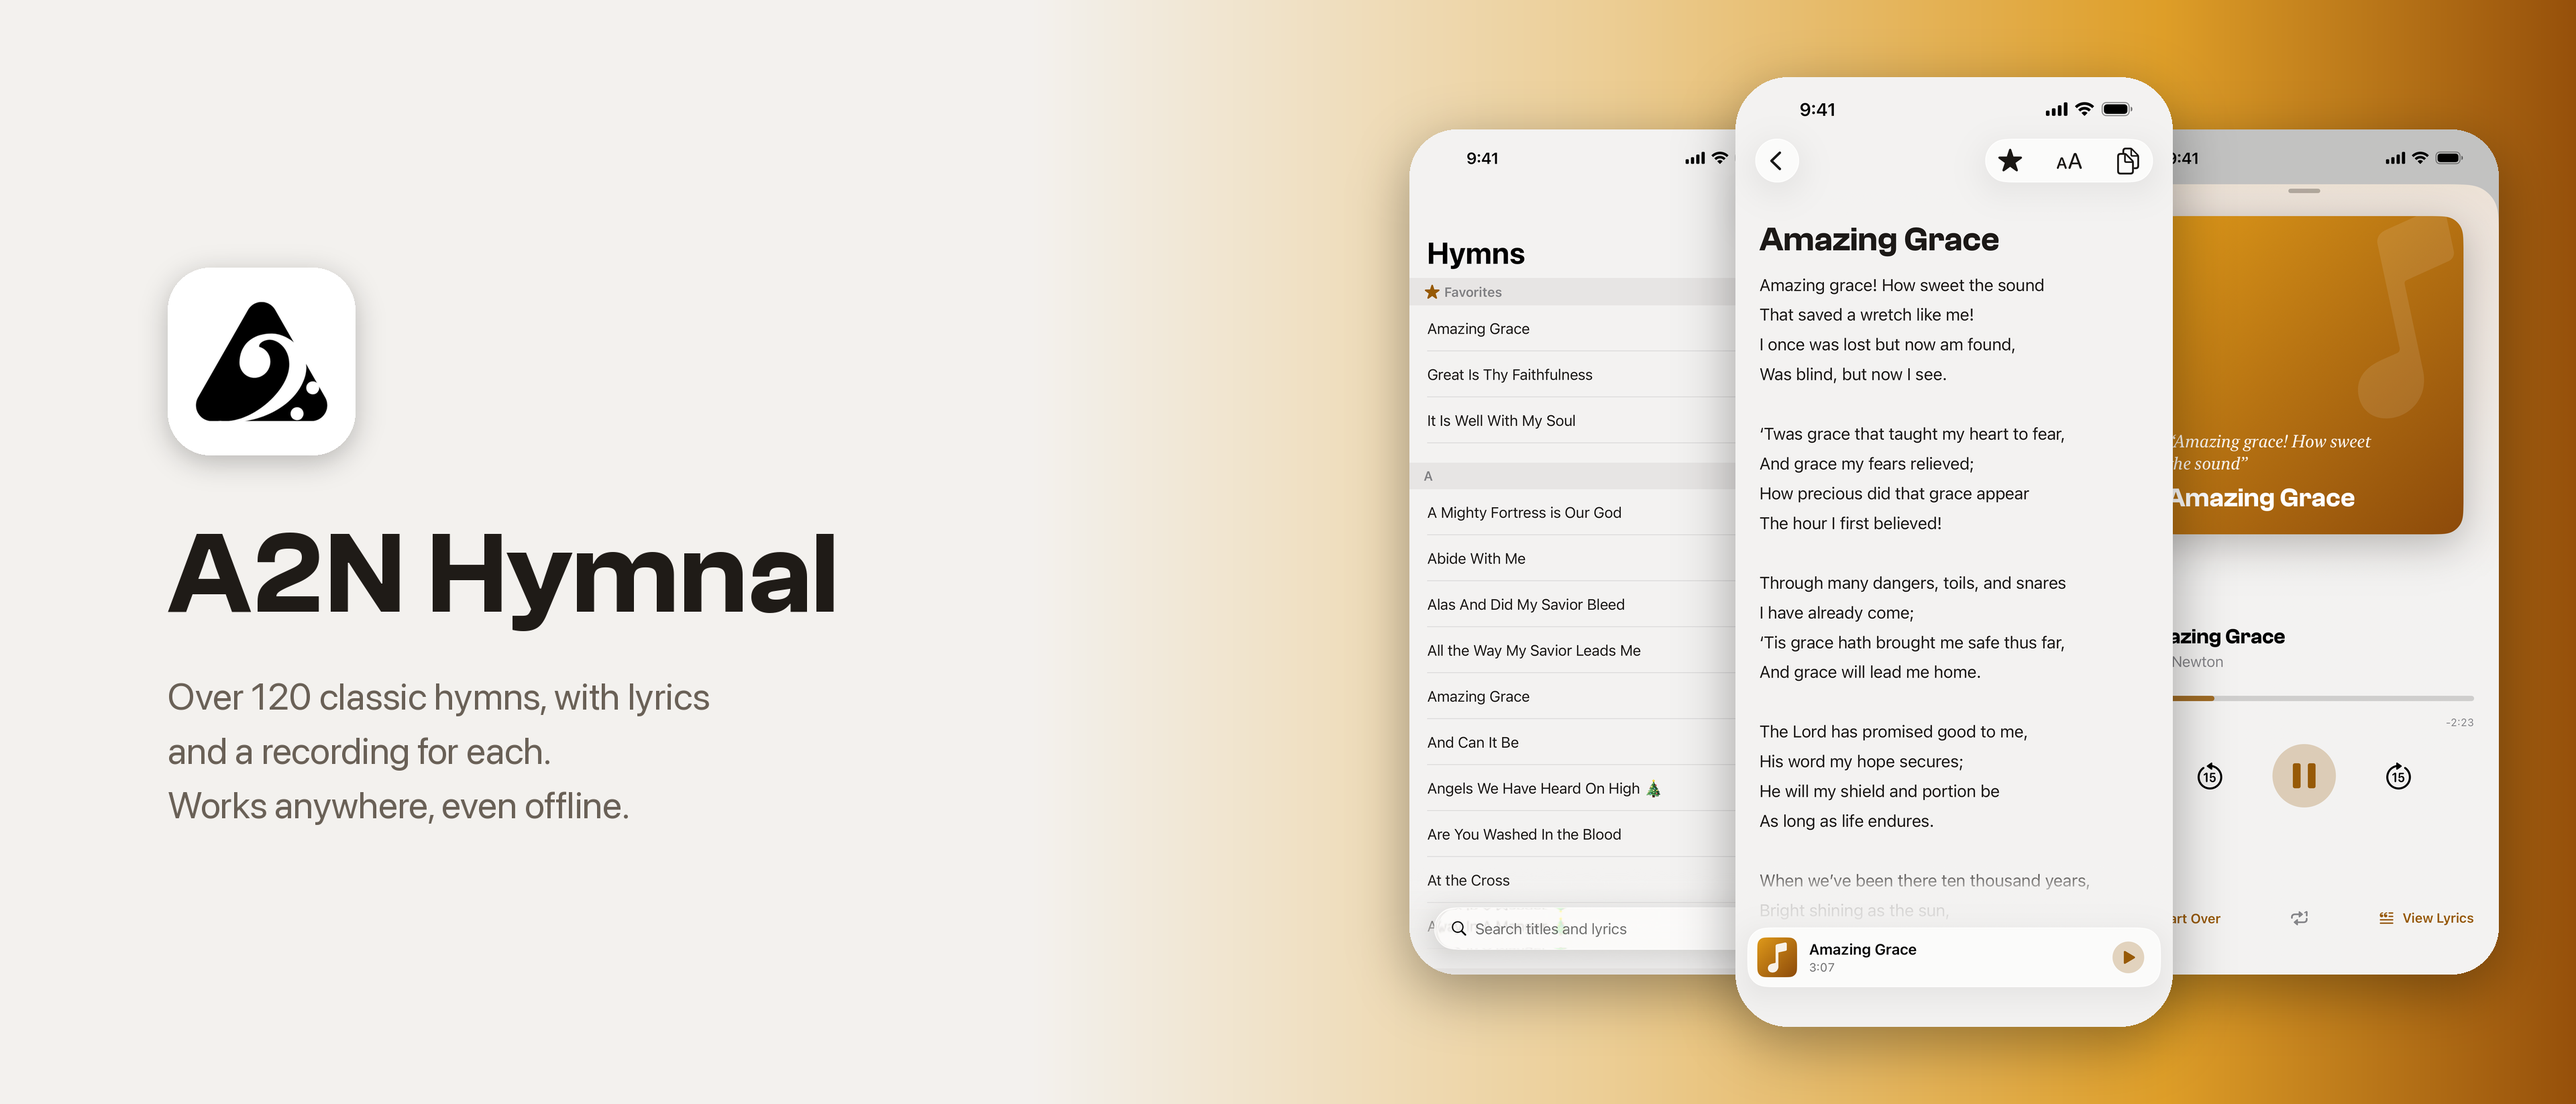
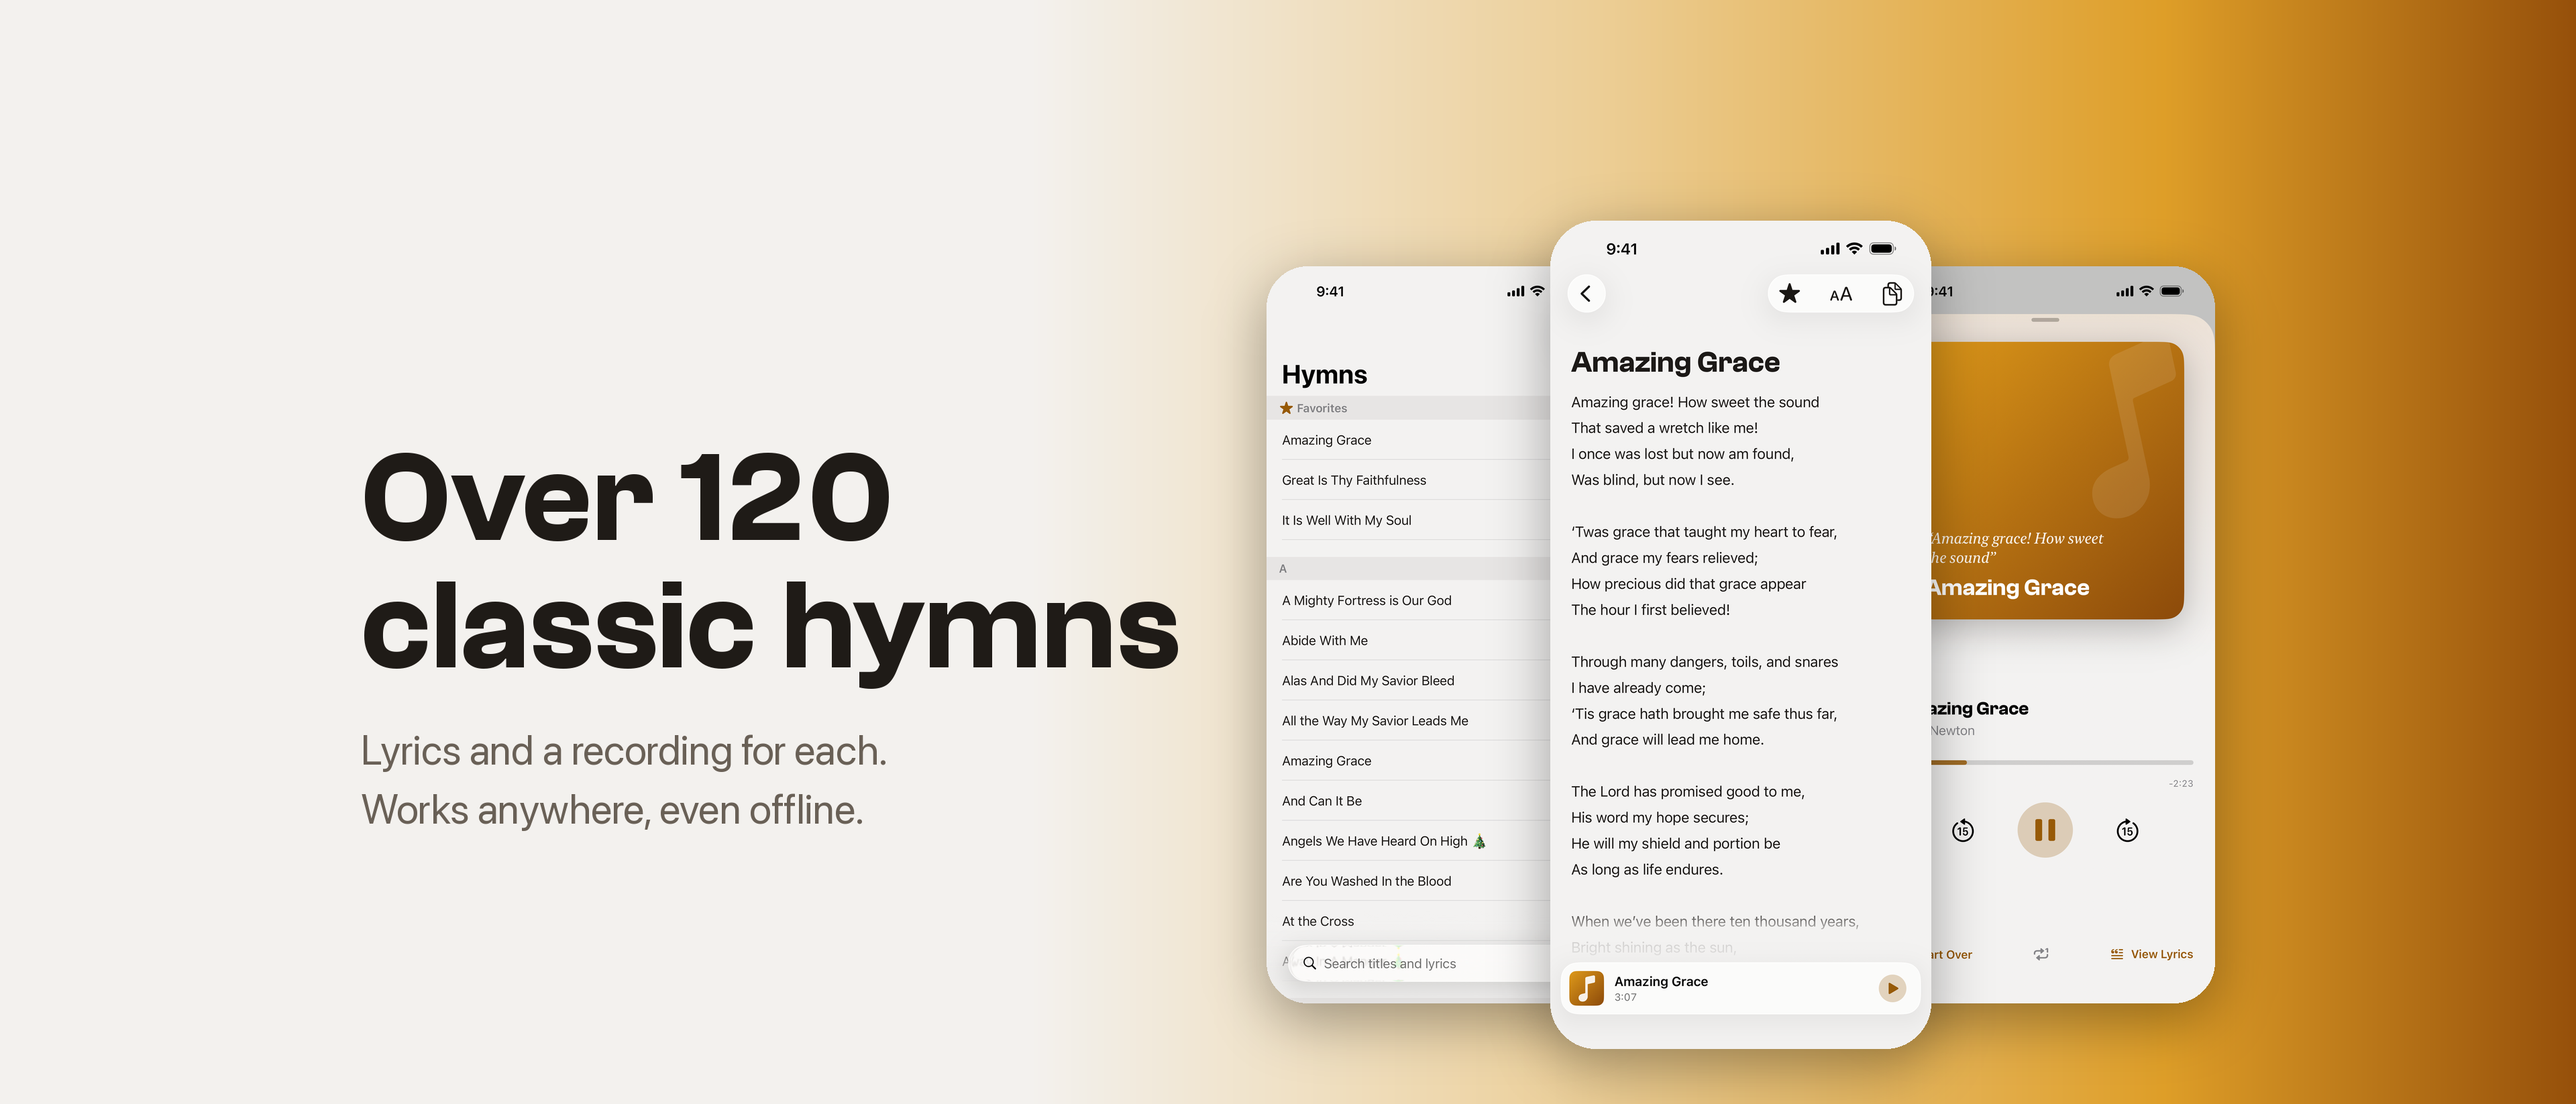
App Store art: keep clear of the iPhone's crop and buttons, and a 16:9 header
The iPhone preview cut off the header's sides and covered its top. The text and phones now sit
inside a safe area, and a headline replaces the icon and name, which show just below anyway.

Changed region(s): [[0.0625, 0.062, 0.9688, 0.9915]]

diff --git a/apple/store-listing/make-art.py b/apple/store-listing/make-art.py
@@ -1,4 +1,4 @@
-# python3 art.py W H out.png : the App Store header / search image, icon and name on the left, three iPhones on the right.
+# python3 make-art.py W H out.png: the App Store header or search image, a headline on the left and three iPhones on the right.
 import sys
 from PIL import Image, ImageDraw, ImageFilter, ImageFont
 W,H,out=int(sys.argv[1]),int(sys.argv[2]),sys.argv[3]
@@ -21,28 +21,31 @@ def phone(name,h,cx,cy):
     im=Image.open(d+name).convert('RGBA'); w=round(im.width*h/im.height); im=im.resize((w,h),Image.LANCZOS)
     im,m=rounded(im,round(w*0.12)); shadowed(im,m,cx-w//2,cy-h//2,H*0.025,round(H*0.015),0.35)
     return w
-# Phones: centre one larger, all fully inside the frame.
-hc=round(H*(0.86 if W/H>2 else 0.74)); hs=round(hc*0.89)
+# Everything stays inside a safe area: the iPhone App Store crops the header's sides and puts
+# the back and share buttons and the Dynamic Island over its top. The app's icon and name show
+# right below the header, so the art doesn't repeat them.
+wide=W/H>2
+sx=round(W*(0.14 if wide else 0.1)); top=round(H*(0.2 if wide else 0.17)); bot=round(H*(0.95 if wide else 0.87))
+cy=(top+bot)//2
+hc=bot-top; hs=round(hc*0.89)
 wc=round(hc*1320/2868); ws=round(hs*1320/2868); off=round(wc*0.8)
-margin=round(H*0.07); cx=W-margin-off-ws//2
-phone('3-list.png',hs,cx-off,H//2); phone('2-now-playing.png',hs,cx+off,H//2); phone('1-lyrics.png',hc,cx,H//2)
-# Left: icon, name, tagline, vertically centred.
-left=round(W*0.065); textw=cx-off-ws//2-left
-isz=round(H*(0.17 if W/H>2 else 0.13))
-ic=Image.open('apple/A2N Hymnal/Assets.xcassets/AppIconImage.imageset/AppIconImage-light.png').convert('RGBA').resize((isz,isz),Image.LANCZOS)
-ic,im_=rounded(ic,round(isz*0.225))
-tf='apple/A2N Hymnal/Fonts/ClashGrotesk-Semibold.ttf'; ts=round(isz*0.62)
-while ImageFont.truetype(tf,ts).getlength('A2N Hymnal')>textw*0.85: ts-=4
+cx=W-sx-off-ws//2
+phone('3-list.png',hs,cx-off,cy); phone('2-now-playing.png',hs,cx+off,cy); phone('1-lyrics.png',hc,cx,cy)
+# Left: a headline and a line under it, vertically centred in the safe area.
+left=sx; textw=cx-off-ws//2-left-round(W*0.03)
+tf='apple/A2N Hymnal/Fonts/ClashGrotesk-Semibold.ttf'
+heads=['Over 120','classic hymns']
+lines=['Lyrics and a recording for each.','Works anywhere, even offline.']
+ts=round(H*(0.13 if wide else 0.1))
+while max(ImageFont.truetype(tf,ts).getlength(h) for h in heads)>textw: ts-=4
 title=ImageFont.truetype(tf,ts)
-body=ImageFont.truetype('/System/Library/Fonts/SFNS.ttf',round(isz*0.2))
-lines=['Over 120 classic hymns, with lyrics','and a recording for each.','Works anywhere, even offline.']
-lh=round(body.size*1.45); gap1=round(isz*0.28); gap2=round(isz*0.22)
-th=title.getbbox('A2N Hymnal')[3]
-total=isz+gap1+th+gap2+lh*len(lines)
-y=(H-total)//2
-shadowed(ic,im_,left,y,H*0.012,round(H*0.006),0.25)
-dr=ImageDraw.Draw(bg); y+=isz+gap1
-dr.text((left,y),'A2N Hymnal',font=title,fill=INK); y+=th+gap2
+body=ImageFont.truetype('/System/Library/Fonts/SFNS.ttf',round(ts*0.32))
+assert max(body.getlength(l) for l in lines)<=textw, 'text runs into the phones'
+hl=round(ts*1.0); lh=round(body.size*1.45); gap=round(ts*0.35)
+total=hl*len(heads)+gap+lh*len(lines)
+y=cy-total//2
+dr=ImageDraw.Draw(bg)
+for h in heads: dr.text((left,y),h,font=title,fill=INK); y+=hl
+y+=gap
 for l in lines: dr.text((left,y),l,font=body,fill=MUTED); y+=lh
-assert max(dr.textlength(l,font=body) for l in lines)<textw, 'text runs into the phones'
 bg.convert('RGB').save(out)

diff --git a/apple/store-listing/README.md b/apple/store-listing/README.md
@@ -7,7 +7,8 @@ Upload-ready graphics and copy for the App Store Connect product page (iOS app v
 | `iphone-6.9/1-…7-….png` | iPhone 6.9" screenshots (1320×2868), in this order |
 | `iphone-6.3/1-…7-….png` | iPhone 6.1"/6.3" "medium display" screenshots (1206×2622), the same set scaled down |
 | `ipad-13/1-…5-….png` | iPad 13" screenshots (2064×2752), in this order |
-| `header-3840x1646.png` | Product page header (3840×1646) |
+| `header-5244x2950.png` | Product page header (5244×2950), the one to use |
+| `header-3840x1646.png` | Product page header, the other accepted size |
 | `search-3840x2560.png` | Search results image (3840×2560) |
 
 App Store Connect rejects the 6.9" set in the medium-display slot, so `iphone-6.3/` is the same
@@ -24,10 +25,14 @@ SIMCTL_CHILD_XCTestConfigurationFilePath=screenshots xcrun simctl launch <udid> 
 xcrun simctl status_bar <udid> override --time 9:41 --batteryState discharging --batteryLevel 100
 ```
 
-`make-art.py` draws the header and the search image from the iPhone screenshots, the app icon
-and Clash Grotesk; run it from the repo root after retaking the screenshots:
+`make-art.py` draws the headers and the search image from the iPhone screenshots in Clash
+Grotesk. It keeps everything away from the edges and top: the iPhone App Store crops the
+header's sides and puts its back and share buttons and the Dynamic Island over the top, and
+shows the app's icon and name just below, so the art doesn't repeat them. Run it from the repo
+root after retaking the screenshots:
 
 ```bash
+python3 apple/store-listing/make-art.py 5244 2950 apple/store-listing/header-5244x2950.png
 python3 apple/store-listing/make-art.py 3840 1646 apple/store-listing/header-3840x1646.png
 python3 apple/store-listing/make-art.py 3840 2560 apple/store-listing/search-3840x2560.png
 ```
